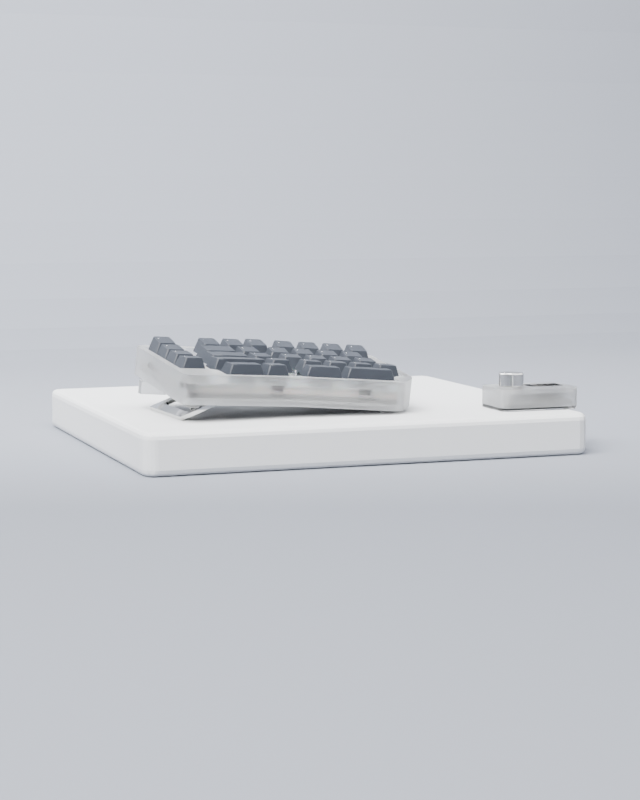
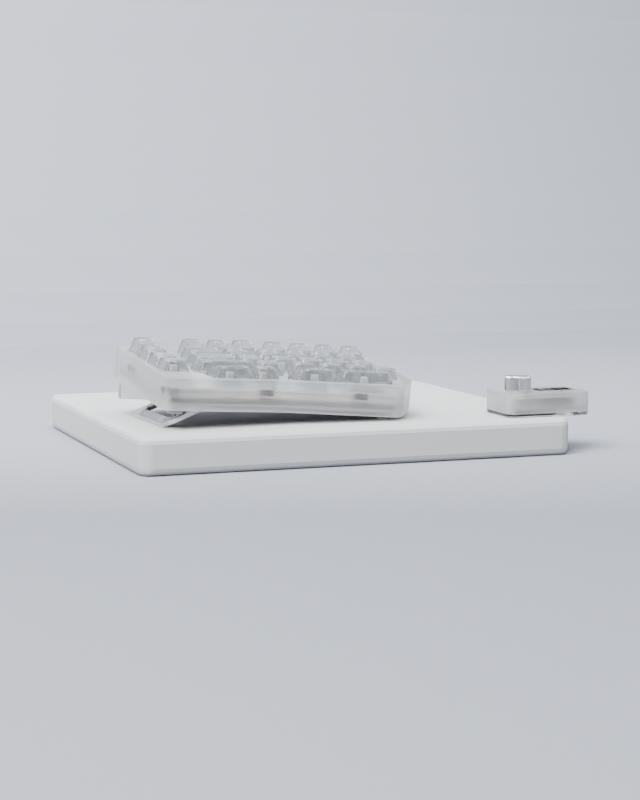
Render fixes: clear X-Ray caps, legend font scaling, gull meets at seam, exploded view spacing, USB-C cutters through wall

Changed region(s): [[0.0938, 0.4062, 0.9375, 0.5938], [0.6562, 0.4688, 0.75, 0.5]]

diff --git a/blender/build_scene.py b/blender/build_scene.py
@@ -327,6 +327,34 @@ def ribbon(name, pts2, w, z0, z1, coll, mat, end_discs=True):
 
 # ---------------------------------------------------------------- text legends
 
+_CAP_SCALE = {}
+
+
+def font_cap_scale(font):
+    """G2 fix: Blender normalises some fonts (Segoe UI) by their full ascent/descent box,
+    so a capital is only ~0.42 x size instead of ~0.70. Measure 'H' once per font and
+    return the factor that makes cap height = 0.70 x the design size."""
+    key = font.name if font else None
+    if key in _CAP_SCALE:
+        return _CAP_SCALE[key]
+    cu = bpy.data.curves.new("_capprobe", 'FONT')
+    cu.body = "H"
+    cu.size = 1.0
+    if font:
+        cu.font = font
+    ob = bpy.data.objects.new("_capprobe", cu)
+    bpy.context.scene.collection.objects.link(ob)
+    dg = bpy.context.evaluated_depsgraph_get()
+    me = bpy.data.meshes.new_from_object(ob.evaluated_get(dg))
+    ys = [v.co.y for v in me.vertices]
+    h = (max(ys) - min(ys)) if ys else 0.7
+    bpy.data.objects.remove(ob)
+    bpy.data.meshes.remove(me)
+    bpy.data.curves.remove(cu)
+    _CAP_SCALE[key] = 0.70 / h if h > 1e-6 else 1.0
+    return _CAP_SCALE[key]
+
+
 def add_legend(cap, k, rowcfg, kc, mat, coll, fonts):
     label = k["label"]
     txt = kc["legend"].get("text", {}).get(label, label)
@@ -341,7 +369,7 @@ def add_legend(cap, k, rowcfg, kc, mat, coll, fonts):
     font = fonts["sym"] if arrows else fonts["main"]
     if font:
         cu.font = font
-    cu.size = size * MM
+    cu.size = size * MM * font_cap_scale(font if font else None)
     cu.extrude = kc["legend"]["thickness_mm"] * MM
     cu.align_x = 'CENTER' if arrows else 'LEFT'
     cu.align_y = 'CENTER' if arrows else ('BOTTOM' if mod else 'TOP')
@@ -691,7 +719,8 @@ def build(design):
         nn = len(stad)
         nvec = Vector((n_i[0], n_i[1]))
         cverts = []
-        for dpt in (-3.0, 3.0):
+        # G6: cutter must cross the whole wall (was +-3 on a 4 mm wall -> blind dimple)
+        for dpt in (-(D["case"]["wall_t_mm"] + 1.5), 3.0):
             for sx, sy in stad:
                 p = port_c + along * sx + nvec * dpt
                 cverts.append((p.x, p.y, u["z_mm"] + sy))
@@ -1468,7 +1497,7 @@ def build_hub(D, mats, coll, cut, scene_coll, geom):
                             min(u["r_mm"], u["opening_mm"][1] / 2), 4)
         nn = len(stad)
         cverts = []
-        for dpt in (Dd / 2 - 2.0, Dd / 2 + 2.0):
+        for dpt in (Dd / 2 - hc["wall_t_mm"] - 1.5, Dd / 2 + 2.0):  # G6: through the wall
             for sx, sy in stad:
                 cverts.append((x + sx, dpt, hc["usb_c"]["z_mm"] + sy))
         cfaces = [tuple(reversed(range(nn))), tuple(range(nn, 2 * nn))]

diff --git a/blender/render_shots.py b/blender/render_shots.py
@@ -239,7 +239,7 @@ def fit_plinth(shot, ctx):
     pts = plan_pts(subj, ctx)
     x0 = min(p.x for p in pts); x1 = max(p.x for p in pts)
     y0 = min(p.y for p in pts); y1 = max(p.y for p in pts)
-    margin = 40.0 * MM
+    margin = 25.0 * MM  # G5: 40 -> 25
     need_w = (x1 - x0) + 2 * margin
     need_d = (y1 - y0) + 2 * margin
     pw, pd, ph = ctx["design"]["studio"]["plinth_mm"]

diff --git a/blender/PROGRESS.md b/blender/PROGRESS.md
@@ -15,3 +15,5 @@
 - [2026-10-02 03:21] WORKING R11 done: product p5/p50/p95 on 01=98/141/201 (spread 103), 02=116/174/214 (97) with the smoked caps - both pass >=60 & p95<=245; no lighting lever changes needed | next: R12 full 9-shot re-render + contact sheet | files: tmp/prod_stats.py tmp/mask_stats.py
 - [2026-10-02 03:24] DONE R1-R12: all 9 drafts re-rendered 640x800@48spp (times.json full), contact sheet rebuilt, all debug images refreshed incl fixed hub_gull | next: lead review + CHECKPOINT | files: all
 - [2026-10-02 03:27] WORKING lead review of R1-R12 drafts: U flat on desk OK, 07 hub OK; rejected smoked caps (X-Ray lost), legend glyphs ~3x too small, 05 weight black mirror / U invisible, plinths too white, 06b ports read as white pills -> spec section G (G1-G7) | next: G1-G7 | files: blender/tmp/spec-resume02.md
+- [2026-10-02 09:29] WORKING (Claude, Devin quota out) G1 clear X-Ray caps, G2 legend font-scale fix (Segoe cap 0.42->0.70 x size, bold), G4 grey foam, G5 plinth 0.48/25mm/margin 25, gull: edge_fillet 0.5 + vertex_inset 0.3 | next: full draft re-render + review | files: blender/design.json build_scene.py render_shots.py
+- [2026-10-02 09:35] WORKING (Claude) exploded fixed: gap 20->42, hub to front [0,-150], no plinth (desk), el 21, plinth mat 0.26; USB-C cutters now cross the wall (G6) but hub ports still render as frosted pills - next: debug (bevel after bool? ray-cast) | files: design.json build_scene.py render_shots.py renders/stills/v1/draft/07,06b
